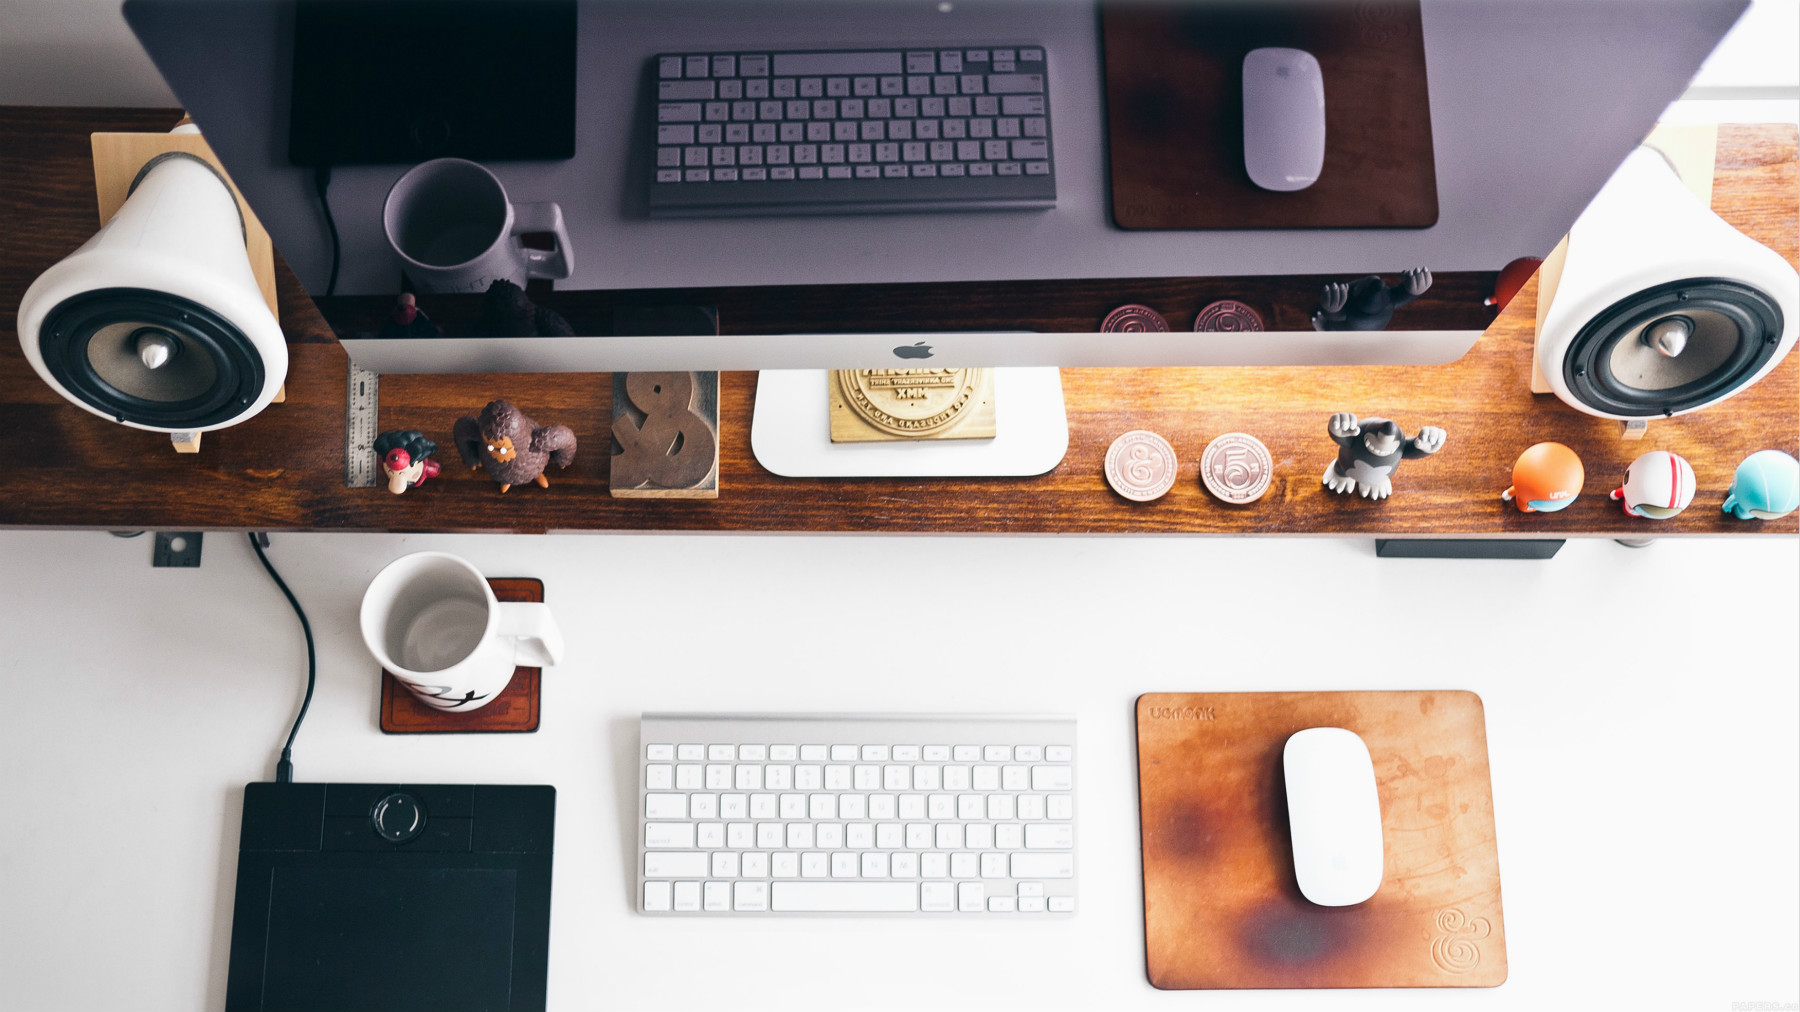
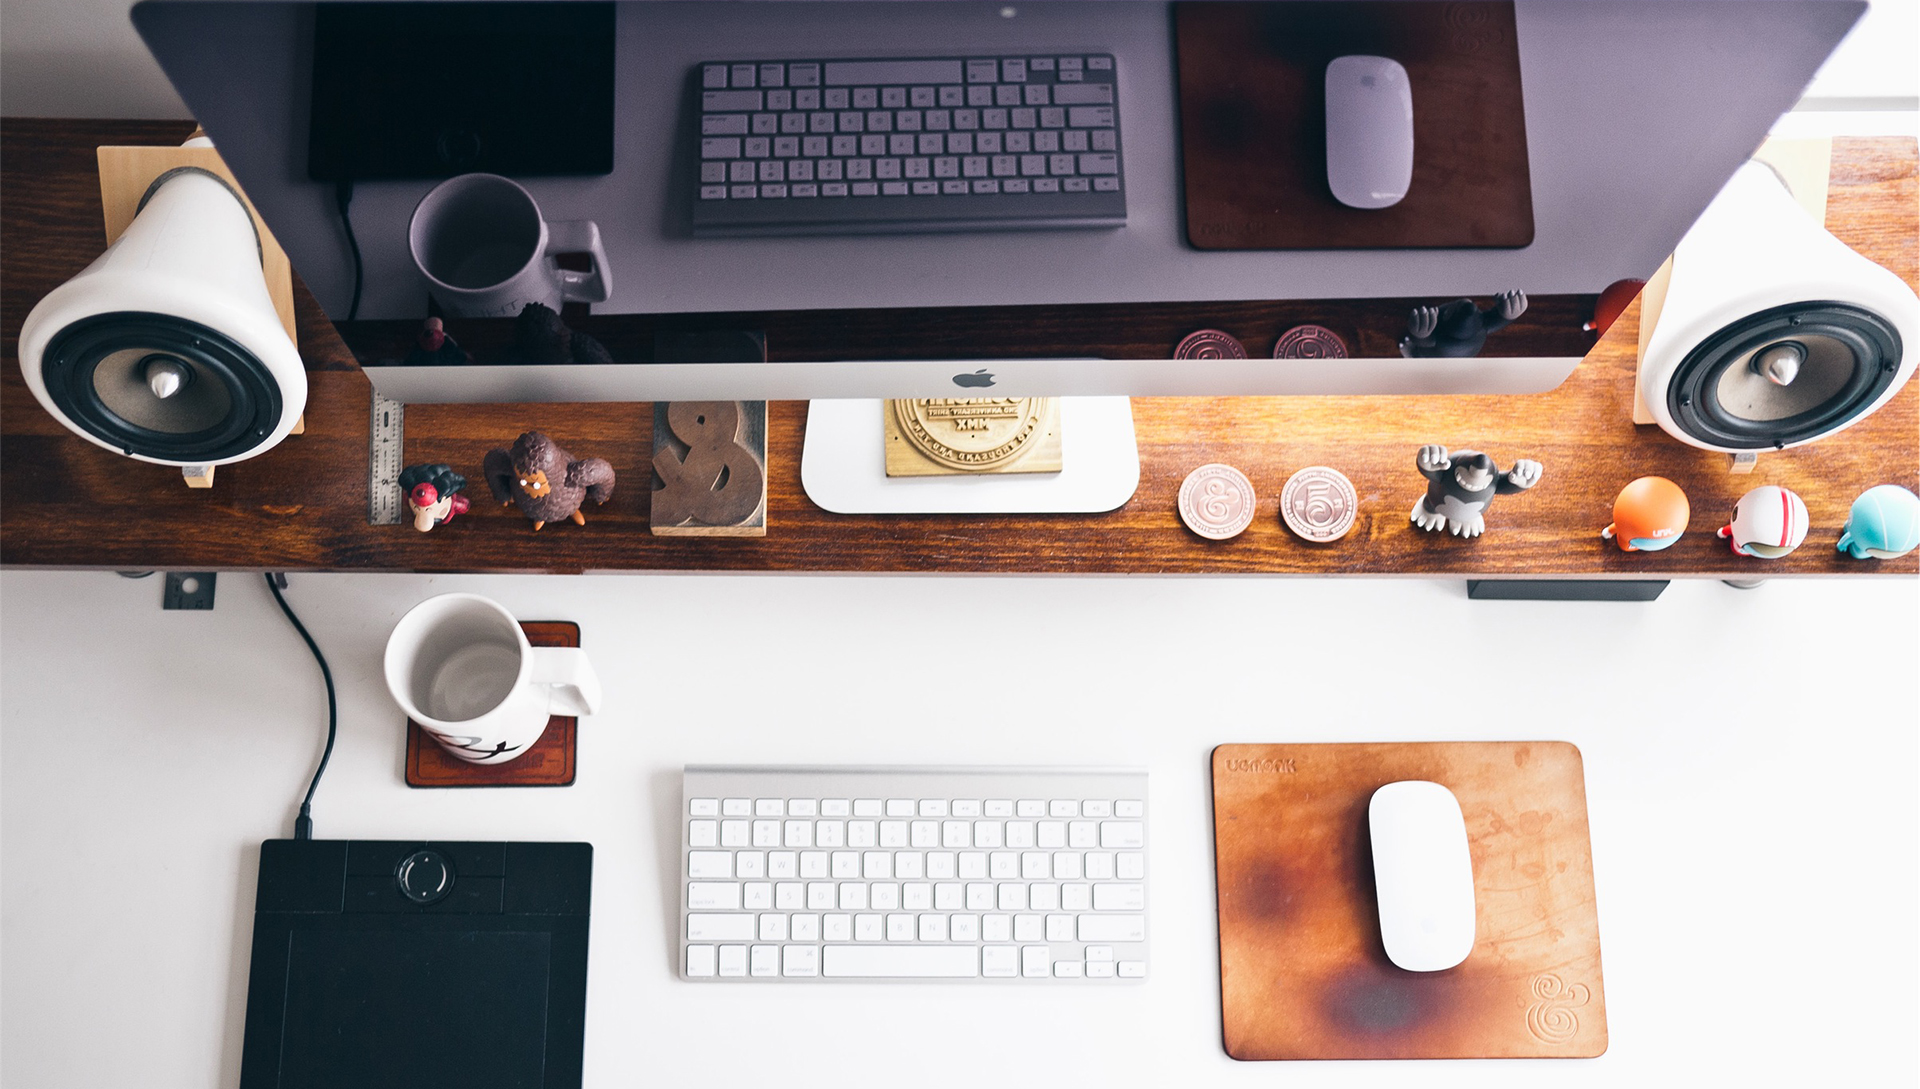
更新主页背景图片

diff --git a/assets/css/main.css b/assets/css/main.css
@@ -6,8 +6,8 @@
 body {
     font: 16px/1.8 "Lato", "Microsoft Jhenghei", "Hiragino Sans GB", "Microsoft YaHei", arial, sans-serif;
     color: #333;
-    background-color: white;
-    background-image: url("../../images/bg1.jpg");
+    background: url("../../images/bg1.jpg") center center no-repeat fixed;
+    background-size: cover;
 }
 
 ::selection {
